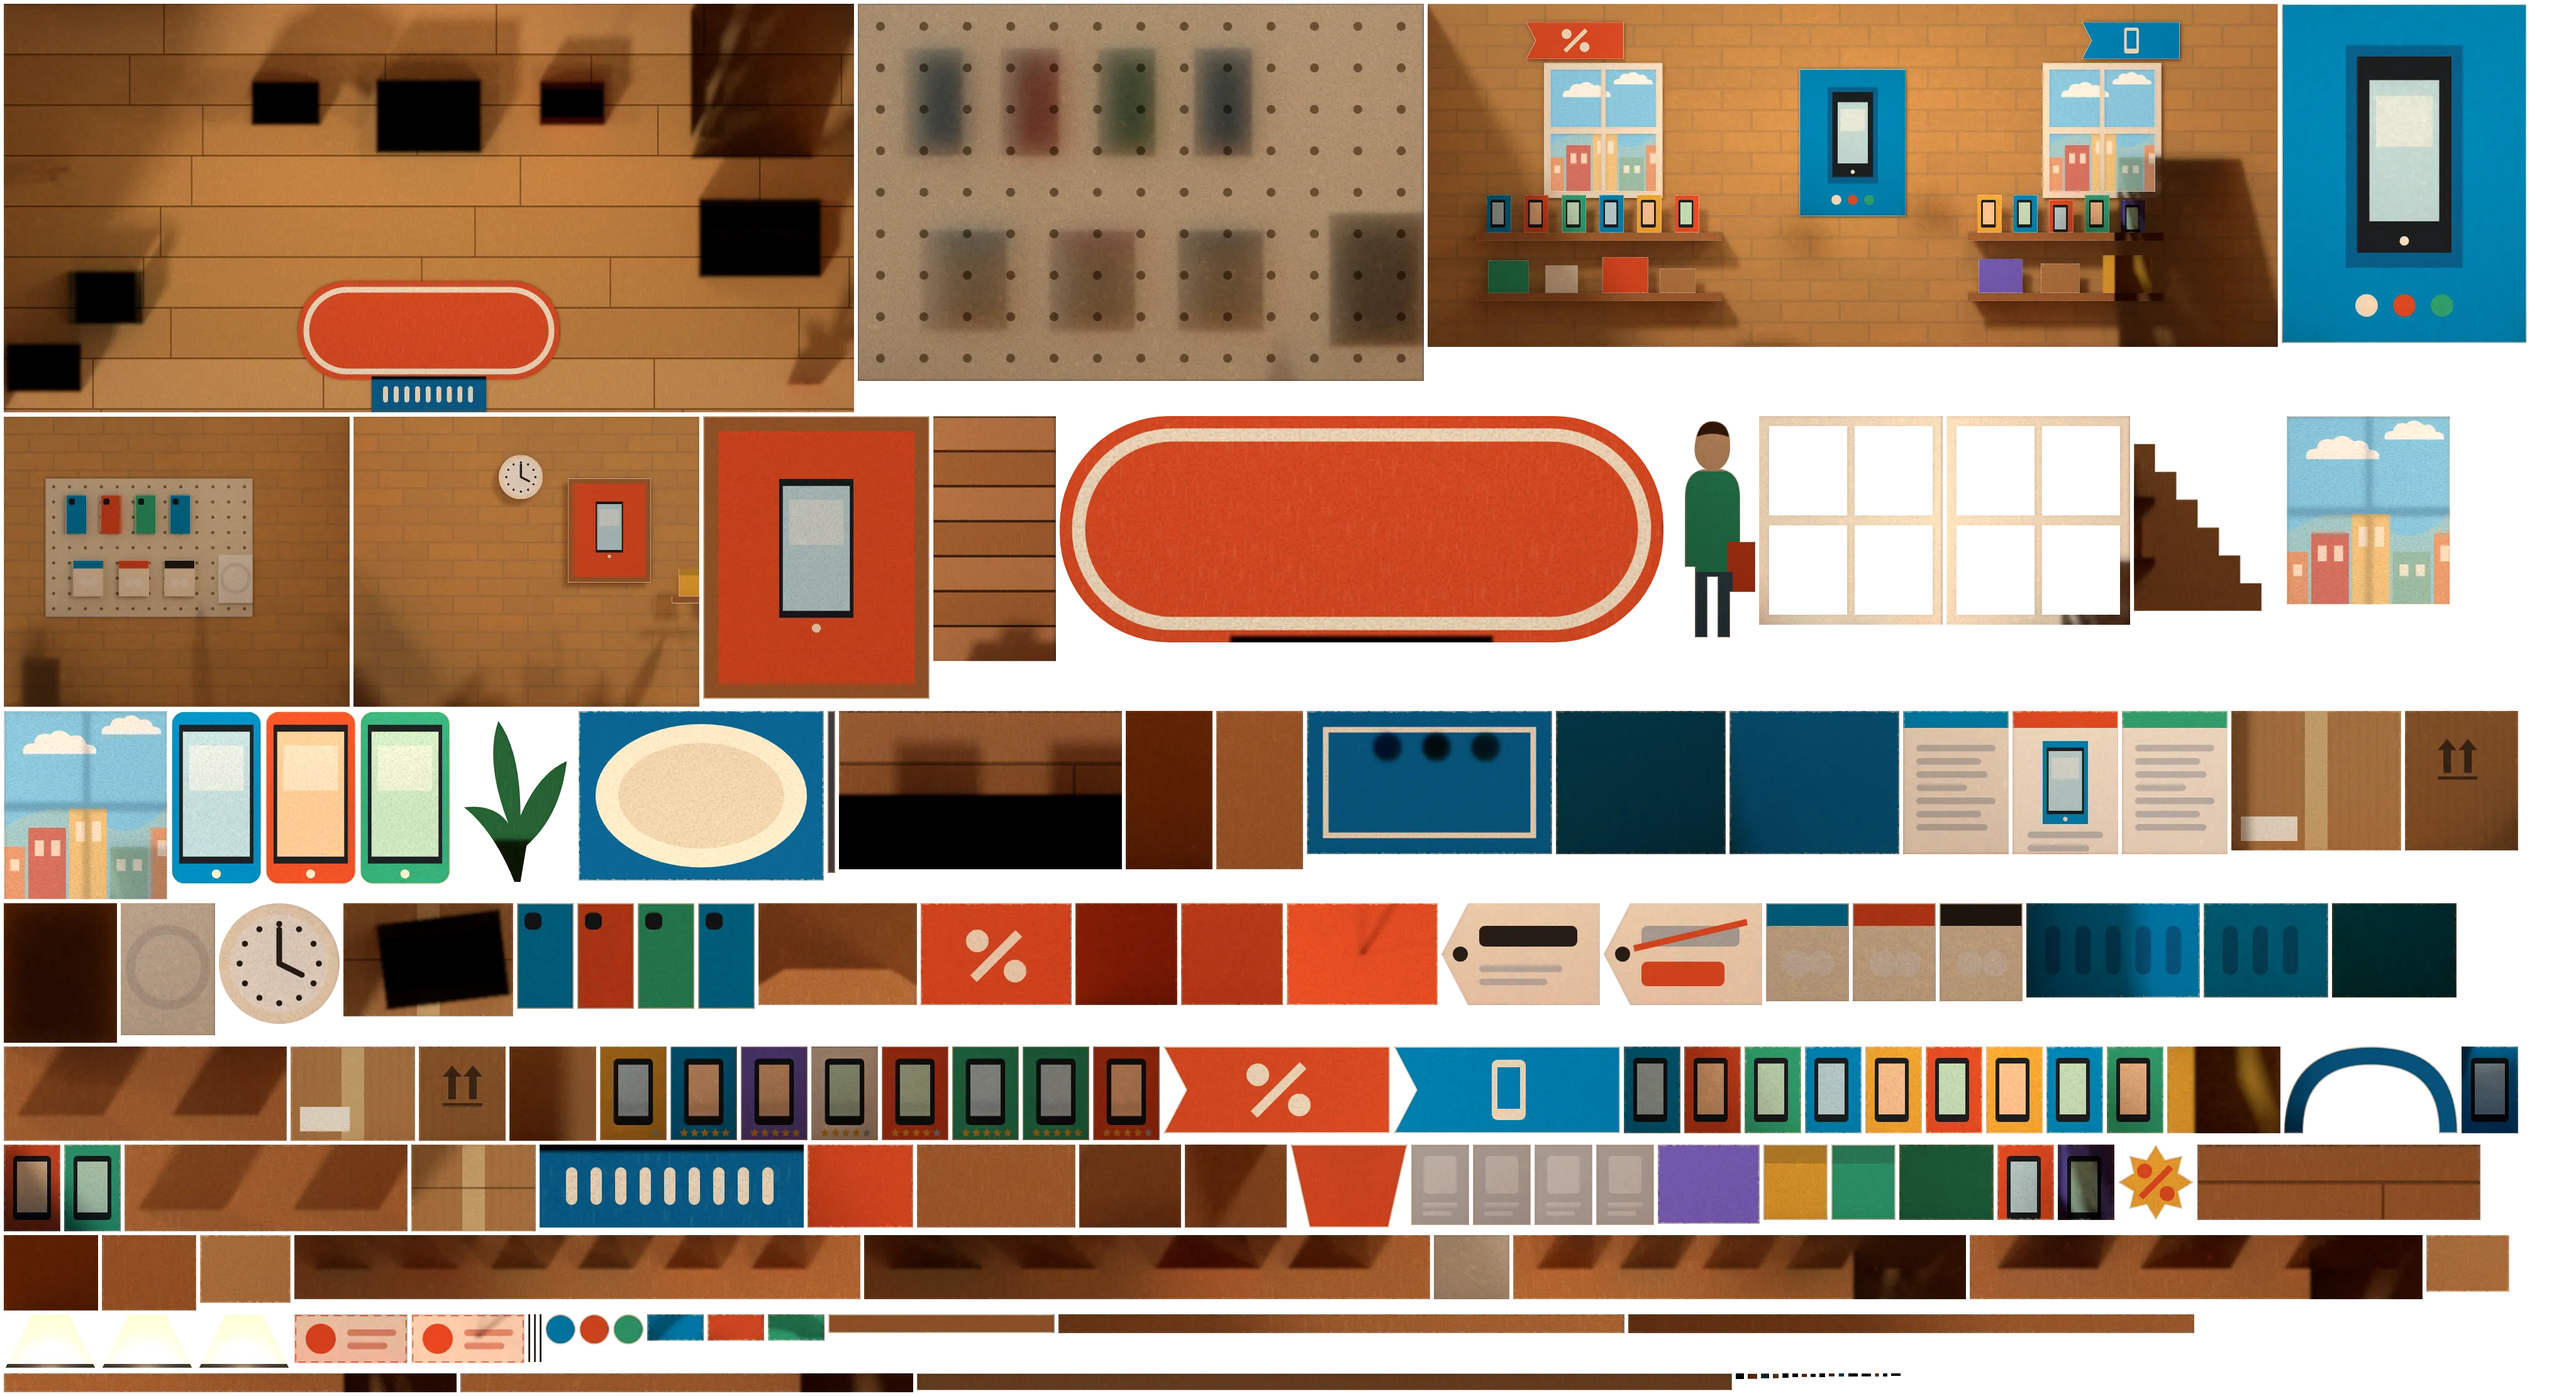
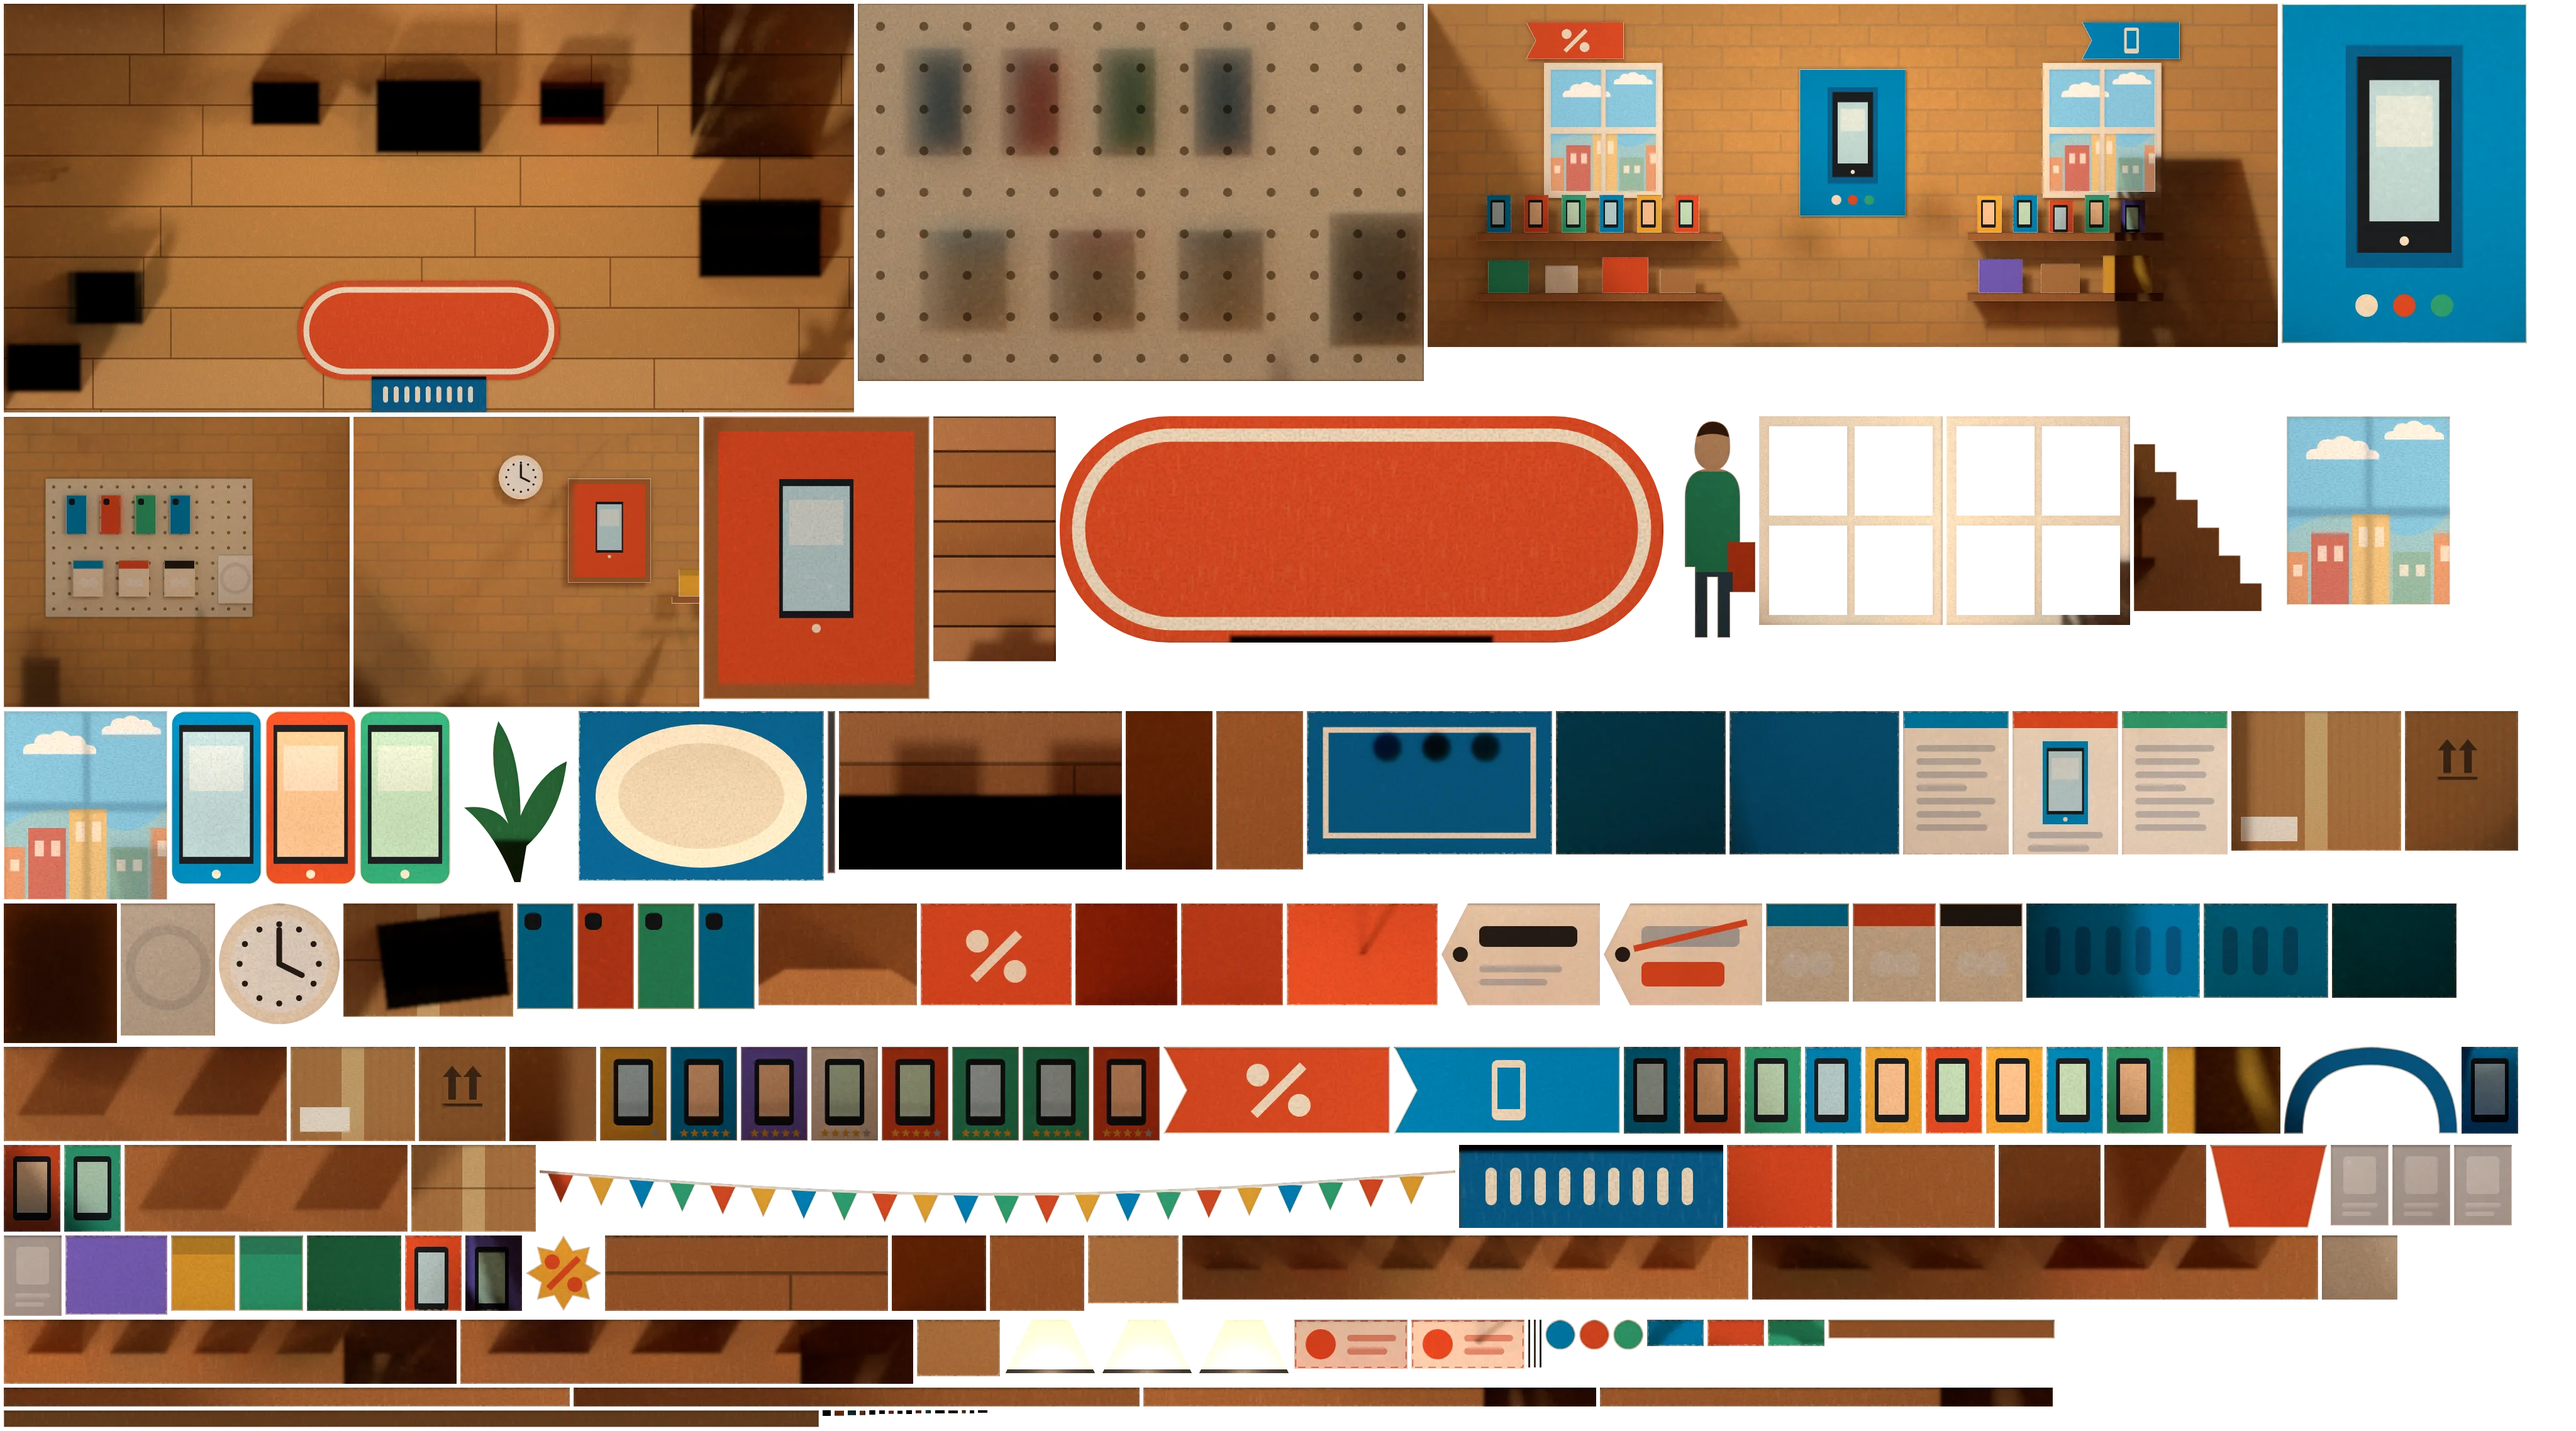
papercraft: richer Blibli spaces
Bunting across the outlet, a clock and framed print on its right wall; a packer
at the far belt upstairs; pigeons and roof birds on the street; the Blibli
building's upstairs windows now show the store-room behind them. Wide sheets
overlap their tiles so no seam shows. Refresh the docs screenshots.

Claude-Session: https://claude.ai/code/session_01YPNotR4jdonAaJaFoS7EaD

diff --git a/game/src/art/scenes/street.ts b/game/src/art/scenes/street.ts
@@ -88,6 +88,11 @@ function windowBox(id: string, parent: Panel, x: number, y: number, w: number, h
   for (let r = 0; r < rows; r++) for (let c = 0; c < cols; c++) panes.push([7 + c * (pw + bar), 7 + r * (ph + bar), pw, ph]);
   return [inner, on(parent, 1.2, x - 7, y - 7, w + 14, h + 14, { id: `${id}-frame`, stock: 'cover', c: CREAM, density: 1.5, mask: slot(w + 14, h + 14, ...panes) })];
 }
+// Upstairs is the store-room: through its windows, plank walls, stacked parcels and the review board.
+const upstairs = (i: number) => `<rect width="106" height="72" fill="#a0805f"/><path d="M26 0V72M54 0V72M82 0V72" stroke="#7a5e44" stroke-width="2"/>` + [
+  `<rect x="8" y="40" width="34" height="32" fill="${'#b98450'}"/><rect x="22" y="40" width="6" height="32" fill="#d9b781"/><rect x="40" y="50" width="28" height="22" fill="${CORAL}"/><rect x="14" y="20" width="26" height="20" fill="#b98450"/>`,
+  `<rect x="14" y="10" width="78" height="44" fill="#c89a62"/><g fill="#fbf7ee"><rect x="20" y="15" width="20" height="16"/><rect x="44" y="15" width="20" height="16"/><rect x="68" y="15" width="20" height="16"/><rect x="20" y="35" width="20" height="16"/><rect x="44" y="35" width="20" height="16"/></g>`,
+  `<rect x="60" y="34" width="38" height="38" fill="#b98450"/><rect x="76" y="34" width="6" height="38" fill="#d9b781"/><rect x="12" y="12" width="40" height="30" fill="#e9dcc4"/><g fill="#7fbf6a"><rect x="16" y="16" width="14" height="10"/><rect x="34" y="16" width="14" height="10"/></g>`][i];
 function shop(): Panel[] {
   const { x, z, w, d, ground: g, upper, peak } = SHOP, h = g + upper, H = h + peak, density = 1.25;
   const door = { x: w / 2 - 68, w: 136, h: 190 };
@@ -99,7 +104,7 @@ function shop(): Panel[] {
   const goodsL = `<rect x="44" y="96" width="44" height="68" fill="${CORAL}"/><rect x="102" y="112" width="58" height="52" fill="${MINT}"/><rect x="176" y="88" width="24" height="76" fill="#1d2228"/><rect x="179" y="92" width="18" height="60" fill="#bfe6f8"/>`;
   const goodsR = `<rect x="34" y="104" width="46" height="60" fill="${PLUM}"/><rect x="96" y="84" width="60" height="80" fill="${SUN}"/><rect x="170" y="88" width="24" height="76" fill="#1d2228"/><rect x="173" y="92" width="18" height="60" fill="#ffd3a8"/>`;
   const windows = [...windowBox('win-l', front, win[0][0], win[0][1], win[0][2], win[0][3], goodsL, 2, 2), ...windowBox('win-r', front, win[1][0], win[1][1], win[1][2], win[1][3], goodsR, 2, 2),
-    ...up.flatMap(([a, b, c, e], i) => windowBox(`win-up${i}`, front, a, b, c, e, `<path d="M0 0H116V24Q58 46 0 24Z" fill="#f6b73c"/>`, 2, 1, 10))];
+    ...up.flatMap(([a, b, c, e], i) => windowBox(`win-up${i}`, front, a, b, c, e, upstairs(i), 2, 1, 10))];
   const doorRoom: Panel = { id: 'door-room', stock: 'cover', c: '#ffdf9e', w: door.w + 16, h: door.h + 8, o: [x - door.w / 2 - 8, 0, z - 22], u: [1, 0, 0], v: [0, 1, 0], edge: 'fold', emit: 1, density };
   const leaf = (id: string, ox: number, edge: 'left' | 'right', deg: number): Panel => hinged({ id, stock: 'cover', c: DEEP, w: door.w / 2, h: door.h, o: [ox, 0, z + .8], u: [1, 0, 0], v: [0, 1, 0], edge: 'cut', density, motion: { when: 'shop-door', edge, deg: edge === 'left' ? 74 : -74 }, mask: slot(door.w / 2, door.h, [12, 14, door.w / 2 - 24, 150]), print: '' }, edge, deg);
   const walls = box({ id: 'shop-body', x, z: z - d / 2, w, h, d, stock: 'cover', c: BLUE, noTop: true, right: clap, left: clap }).filter(p => !p.id.endsWith('front')).map(p => ({ ...p, density: 1 }));
@@ -151,7 +156,10 @@ function dressing(): Panel[] {
   const hydrant = box({ id: 'hydrant', x: -520, z: 166, w: 22, h: 40, d: 22, stock: 'cover', c: CORAL, front: `<rect y="8" width="22" height="5" fill="${CREAM}"/>` });
   const people = [passerBy('walker-a', -40, 156, PLUM, BLUE, false), passerBy('walker-b', 410, 150, SUN, BLUE, true), passerBy('walker-c', 450, 140, '#57b36f', CORAL, true, true)];
   const scooter = card('scooter', -170, 262, 150, 104, BLUE, { mask: '<path fill-rule="evenodd" d="M28 104a22 22 0 1 1 .01 0Z M122 104a22 22 0 1 1 .01 0Z M20 70H130L136 50H100L92 24H104V14H84L94 50H40L30 34H8Z M96 0H150V40H96Z" fill="#fff"/>', print: `<rect width="150" height="104" fill="${BLUE}"/><rect x="96" width="54" height="40" fill="${CORAL}"/><rect x="104" y="8" width="38" height="6" fill="${CREAM}"/><rect y="78" width="150" height="26" fill="#23272d"/>` });
-  return [...board, arrow, ...pot, ...leaves('plant-a', 0), ...shrub('shrub-d', 600, -130, 180, 92, FOLIAGE, '#2f7d48'), ...shrub('shrub-e', -330, -150, 150, 70, '#57b36f', '#3f9a5b'), ...tree, ...cart,
+  // Pigeons pecking on the pavement and two birds on the Blibli roof ridge.
+  const bird = (id: string, x: number, z: number, y: number, flip: boolean, rot = 0, c = '#8d96a3'): Panel => card(id, x, z, 30, 22, c, { density: 3, mask: `<g ${flip ? 'transform="translate(30 0) scale(-1 1)"' : ''}><path d="M4 12Q4 4 12 6L16 2Q22 0 24 4L29 6L24 8Q24 16 16 18L18 22H15L13 18Q6 18 4 12Z M0 10L6 9L5 13Z" fill="#fff"/></g>`, print: `<g ${flip ? 'transform="translate(30 0) scale(-1 1)"' : ''}><rect width="30" height="22" fill="${c}"/><circle cx="21" cy="4.6" r="1.4" fill="${INK}"/><rect x="24" y="5" width="6" height="2" fill="${SUN}"/><path d="M9 10Q14 8 18 12" stroke="#6b7480" stroke-width="2" fill="none"/></g>` }, rot, y);
+  const birds = [bird('pigeon-a', 60, 120, 0, false, 10), bird('pigeon-b', 104, 132, 0, true, -14, '#a4acb7'), bird('ridge-a', 70, -84, 470, false, 0, '#5b6470'), bird('ridge-b', 300, -84, 448, true, 0, '#5b6470')];
+  return [...board, arrow, ...birds, ...pot, ...leaves('plant-a', 0), ...shrub('shrub-d', 600, -130, 180, 92, FOLIAGE, '#2f7d48'), ...shrub('shrub-e', -330, -150, 150, 70, '#57b36f', '#3f9a5b'), ...tree, ...cart,
     ...streetLamp('lamp-a', -600, 176, 250, '#ffe7a8'), ...streetLamp('lamp-b', 720, 176, 230, '#fff4e2'), ...bench, ...aboard, bike, ...bin, ...hydrant, ...people, scooter];
 }
 const unitV = (a: V3): V3 => { const l = Math.hypot(...a); return [a[0] / l, a[1] / l, a[2] / l]; };

diff --git a/game/src/art/scenes/rooms.ts b/game/src/art/scenes/rooms.ts
@@ -145,8 +145,13 @@ export function shop(): Scene {
     { id: 'fg-plant', stock: 'sugar', c: '#2f7d48', w: 120, h: 170, o: [400, 0, 214], u: [1, 0, 0], v: [0, 1, 0], edge: 'cut', density: 1.6, mask: '<path d="M60 170Q40 120 10 96Q40 92 54 112Q30 50 44 10Q66 40 66 104Q84 62 112 50Q106 104 72 134L66 170Z" fill="#fff"/>' },
     { id: 'fg-pot', stock: 'cover', c: CORAL, w: 62, h: 44, o: [428, 0, 216], u: [1, 0, 0], v: [0, 1, 0], edge: 'cut', mask: '<path d="M0 0H62L52 44H10Z" fill="#fff"/>' }
   ];
+  // Bunting strung across the room at ceiling height: the overhead layer that closes the box from above.
+  const sag = (x: number) => 30 + 26 * Math.sin(Math.PI * x / W) ** 1;
+  const flags = Array.from({ length: 22 }, (_, i) => { const x = 24 + i * 46, y = sag(x); return `<path d="M${x - 15} ${y.toFixed(1)}L${x + 15} ${(y + 1.5).toFixed(1)}L${x} ${(y + 34).toFixed(1)}Z" fill="#fff"/>`; }).join('');
+  const string = `<path d="M0 30${Array.from({ length: 41 }, (_, i) => `L${(i + 1) * W / 41} ${sag((i + 1) * W / 41).toFixed(1)}`).join('')}" stroke="#fff" stroke-width="3" fill="none"/>`;
+  const bunting: Panel = { id: 'bunting', stock: 'cover', c: CREAM, w: W, h: 96, o: [-W / 2, H - 100, 120], u: [1, 0, 0], v: [0, 1, 0], edge: 'cut', density: 1.4, mask: string + flags, print: `${Array.from({ length: 22 }, (_, i) => `<rect x="${i * 46 + 9}" width="30" height="96" fill="${[CORAL, SUN, BLUE, MINT][i % 4]}"/>`).join('')}` };
   const lamps = [[-175, -60], [0, -90], [175, -60]] as const;
-  const panels = [sill('sill', '#6d4524'), fl, rug, mat, back, lw, rw, peg, ...accessories, ...wallDeco, ...win('win-a', 150, 4), ...win('win-b', 760, 9),
+  const panels = [sill('sill', '#6d4524'), bunting, fl, rug, mat, back, lw, rw, peg, ...accessories, ...wallDeco, ...win('win-a', 150, 4), ...win('win-b', 760, 9),
     pennant('tag-promo', 120, 352, CORAL, percent), pennant('tag-phones', 800, 352, BLUE, phoneIcon), poster, ...shelves,
     ...ped, ...phones, ...chips, ...catStand, ...leaflet, ...promoStand, pole, ...tags, burst, coupon(0), coupon(1),
     ...basket, handle, ...inCart, ...riser, ...recs, shopper, ...stairCard('stairs', 395, 1, WOOD),
@@ -228,10 +233,12 @@ export function storeroom(): Scene {
   const onBelt = (group: string, c: string, x: number, z: number) => carton(group, x, z, 62, 54, 40, 46, c, 0, group);
   const stack = [...carton('st-a', -330, 140, 0, 84, 62, 64), ...carton('st-c', -316, 138, 62, 62, 46, 50, KRAFT, 10)];
   const fgBoxes = [...carton('fg-a', 470, 210, 0, 100, 96, 70), ...carton('fg-b', 462, 212, 96, 74, 58, 56, CORAL, -6), ...carton('fg-c', -470, 214, 0, 80, 60, 56)];
+  // A packer at the far belt.
+  const packer = stand('packer', 400, -150, 0, 70, 168, STEEL, { density: 2, mask: '<path d="M22 168V116H12V62Q12 44 28 42Q20 36 22 22Q24 4 36 4Q50 4 50 22Q51 36 42 42Q58 44 58 62V116H48V168H38V122H32V168Z" fill="#fff"/>', print: `<rect width="70" height="44" fill="#c99a7a"/><path d="M18 14Q36 -8 54 14V20H18Z" fill="${CORAL}"/><rect y="44" width="70" height="76" fill="${MINT}"/><rect x="18" y="56" width="34" height="64" fill="#2f7d5b"/><rect y="120" width="70" height="48" fill="${STEEL}"/>` }, -12);
   const lamps = [[-170, -40], [60, 30], [290, -60]] as const;
   const panels = [sill('sill', '#4a3424'), fl, back, lw, rw, roundWin, roundFrame, cork, corkFrame, ...tabs, ...reviewCards, oldCard, ...cans, roller,
     pegboard, ...grid, line, ...list, ...rackOn(lw, -1, 'rack-l'), ...rackOn(rw, 1, 'rack-r'),
-    ...beltBox('belt-a', 40, -200, 760), ...beltBox('belt-b', 270, 118, 300), ...onBelt('p-a', KRAFT, -300, -200), ...onBelt('p-b', CORAL, 150, 118),
+    packer, ...beltBox('belt-a', 40, -200, 760), ...beltBox('belt-b', 270, 118, 300), ...onBelt('p-a', KRAFT, -300, -200), ...onBelt('p-b', CORAL, 150, 118),
     ...desk, ...camera, ejected, form, ...ratings, pinned, ...mug, ...stack, ...stairCard('stairs', -395, -1, WOOD),
     ...lamps.flatMap(([x, z], i) => lampSet(`lamp-${i}`, x, z, 300, 480 - Math.abs(x) * .38)), ...fgBoxes];
   return {

diff --git a/game/src/content.ts b/game/src/content.ts
@@ -69,7 +69,7 @@ export const content: Content = validateContent({ worlds: {
       { fact: "High volume of traffic puts continuous attention to this page's performance, pushing me to learn many web optimization techniques", at: ['recs', 'street-door'] } ] },
   // Second floor: product reviews, from writing one to browsing everyone's.
   'blibli-storeroom': { id: 'blibli-storeroom', art: 'storeroom', back: { world: 'blibli-shop', stop: 'stairs-up' }, camera: { zoom: .8, x0: -30, x1: 30 }, bounds: { x0: -460, x1: 460, z0: -150, z1: 190 },
-    solid: [{ x0: -360, x1: 420, z0: -235, z1: -165 }, { x0: 120, x1: 420, z0: 83, z1: 153 }, { x0: -190, x1: 70, z0: 15, z1: 105 }, { x0: -372, x1: -288, z0: 108, z1: 172 }],
+    solid: [{ x0: -360, x1: 420, z0: -235, z1: -165 }, { x0: 120, x1: 420, z0: 83, z1: 153 }, { x0: -190, x1: 70, z0: 15, z1: 105 }, { x0: -372, x1: -288, z0: 108, z1: 172 }, { x0: 370, x1: 430, z0: -165, z1: -138 }],
     title: 'Second floor: store-room', path: 'store', color: '#0092da',
     stops: [
       { id: 'stairs-down', label: 'Downstairs', x: -400, z: -130, reach: 80, action: { kind: 'road', to: 'blibli-shop', stop: 'stairs-up' } },

diff --git a/game/tools/paper/finish.py b/game/tools/paper/finish.py
@@ -122,7 +122,8 @@ def tiles(q, n):
     u = u / np.linalg.norm(u)
     out = []
     for k in range(n):
-        x0, x1 = round(q["pw"] * k / n), round(q["pw"] * (k + 1) / n)
+        # Neighbouring tiles overlap by two pixels so no seam opens between them.
+        x0, x1 = max(0, round(q["pw"] * k / n) - 1), min(q["pw"], round(q["pw"] * (k + 1) / n) + 1)
         o = (np.array(q["o"], dtype=float) + u * q["w"] * x0 / q["pw"]).round(3).tolist()
         out.append({**q, "id": f'{q["id"]}-{k}', "o": o, "w": q["w"] * (x1 - x0) / q["pw"], "x": q["x"] + x0, "pw": x1 - x0})
     return out
